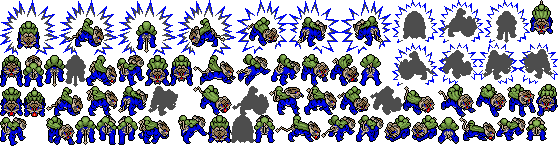
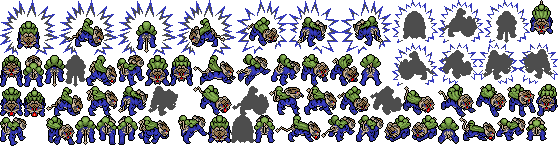
fix: tone-down high-contrast shadows

diff --git a/.claude/skills/shadow-sprites/shadow.ts b/.claude/skills/shadow-sprites/shadow.ts
@@ -43,6 +43,11 @@ interface Family {
    * every light tone to white.
    */
   fit?: boolean;
+  /**
+   * The most saturation the part may end on. Inverting a warm, saturated
+   * colour lands on a glaring pure blue or cyan; this softens it.
+   */
+  tone?: number;
 }
 /**
  * Down-facing eyes are drawn differently from side views, so a plan can
@@ -77,6 +82,12 @@ interface EyeRule {
    * a fragment of a larger spot drawn in the eye's colour is too big.
    */
   diagonal?: boolean;
+  /**
+   * Colours that are part of the eye when below a picked pixel, straight
+   * or diagonally:
+   * an eye drawn as a white glint over a coloured iris (Ho-Oh).
+   */
+  iris?: string[];
 }
 interface Plan {
   /** The sheet the pixels come from, as `dex/form`, and which coat. */
@@ -158,7 +169,8 @@ export function swapsFor(plan: Plan): Map<string, string> {
 /** A colour of a part, moved onto the part's inverted flat colour. */
 function shade(f: Family, colour: string): string {
   const target = invert(f.scheme == null ? f.base : mean(f.scheme));
-  const [th, ts, tl] = toHsl(rgb(target));
+  const [th, full, tl] = toHsl(rgb(target));
+  const ts = f.tone == null ? full : Math.min(full, f.tone);
   const baseL = toHsl(rgb(f.base))[2];
   const l = toHsl(rgb(colour))[2];
   const fitted = l <= baseL ? (l / baseL) * tl : tl + ((l - baseL) * (1 - tl)) / (1 - baseL);
@@ -240,7 +252,18 @@ function eyesBy(img: Image, rule: EyeRule): Set<number> {
       }
       return false;
     });
-    if (close && clear) for (const b of blob) found.add(b);
+    if (!close || !clear) continue;
+    const iris = new Set(rule.iris ?? []);
+    for (const b of blob) {
+      found.add(b);
+      const bx = b % img.width, by = (b / img.width) | 0;
+      // Below, or diagonally below for a side view
+      for (const dx of [0, -1, 1]) {
+        const nx = bx + dx, ny = by + 1, n = ny * img.width + nx;
+        if (!iris.size || nx < 0 || nx >= img.width || ny >= img.height) continue;
+        if (img.rgba[n * 4 + 3] && iris.has(hexAt(img, n * 4))) found.add(n);
+      }
+    }
   }
   return found;
 }
@@ -355,7 +378,11 @@ function install(plan: Plan, planFile: string): void {
   // Whoever drew the source drawing is credited for it; the colours are ours
   meta.credits = { ...meta.credits, [coat]: from.credits[plan.source.coat] ?? [] };
   meta.coats = ['regular', 'shiny', 'female', 'shinyFemale'].filter((k) => k === coat || meta.coats.includes(k));
-  meta.derived = [...(meta.derived ?? []).filter((d: any) => d.coat !== coat), { coat, anim: null, from: plan.source.coat }];
+  // Replace in place, so reinstalling a coat leaves the list's order alone
+  const entry = { coat, anim: null, from: plan.source.coat };
+  const derived = meta.derived ?? [];
+  const at = derived.findIndex((d: any) => d.coat === coat);
+  meta.derived = at < 0 ? [...derived, entry] : derived.map((d: any, i: number) => (i === at ? entry : d));
   writeFileSync(join(folder, 'sheet.json'), JSON.stringify(meta));
   updateIndex(COMPACT);
   const kept = join(COMPACT, 'edits', `${plan.target.form.split('/').map((n) => n.padStart(4, '0')).join('-')}-shadow-${coat}.json`);

diff --git a/compact/EDITS.md b/compact/EDITS.md
@@ -15,15 +15,15 @@ rather than what the artist submitted.
 | `kalos/0702/0000` shiny `Hurt` | `kalos/0702/0000` regular `Hurt` | The shiny was never drawn hurt. Recoloured through the mapping, except the light forehead: the regular paints forehead and face one tan, so those pixels came from whichever of the shiny’s other clips draws the same five-by-five neighbourhood. |
 | `unova/0588/0000` shiny | `unova/0588/0000` regular | No shiny was drawn. Recoloured from the regular, matched to the official shiny artwork. |
 | `johto/0249/0001` Shadow shiny | `johto/0249/0001` regular | No shiny was drawn. Scheme taken from shiny Lugia with its shading removed, then inverted: black body, turquoise plates. Applied over Shadow Lugia's own shading; eyes kept red. |
-| `johto/0250/0002` Shadow | `johto/0250/0000` regular | Not in the collection; a form of ours. Made with the `shadow-sprites` skill from `edits/0250-0002-shadow-regular.json`, eyes included. |
-| `johto/0250/0002` Shadow, shiny | `johto/0250/0000` shiny | The same, from shiny Ho-Oh: `edits/0250-0002-shadow-shiny.json`. |
+| `johto/0250/0002` Shadow | `johto/0250/0000` regular | Not in the collection; a form of ours. Made with the `shadow-sprites` skill from `edits/0250-0002-shadow-regular.json`, eyes included. Each eye is a white glint plus the red iris below it (`iris`); side views need a second rule. Main blue softened with `tone`. |
+| `johto/0250/0002` Shadow, shiny | `johto/0250/0000` shiny | The same, from shiny Ho-Oh: `edits/0250-0002-shadow-shiny.json`. Main blue softened with `tone`. |
 | `kanto/0150/0003` Shadow, shiny | `kanto/0150/0003` regular | No shiny was drawn. Made with the `shadow-sprites` skill: body and tail from shiny Mewtwo inverted, gold blasts and stripes turned to Mewtwo's blast blue by hand (`edits/0150-0003-shadow-shiny.json`). |
-| `kanto/0146/0004` Shadow | `kanto/0146/0000` regular | Not in the collection; a form of ours. Made with the `shadow-sprites` skill: `edits/0146-0004-shadow-regular.json`. |
+| `kanto/0146/0004` Shadow | `kanto/0146/0000` regular | Not in the collection; a form of ours. Made with the `shadow-sprites` skill: `edits/0146-0004-shadow-regular.json`. Main blue softened with `tone`. |
 | `kanto/0146/0004` Shadow, shiny | `kanto/0146/0000` shiny | The same, from shiny Moltres, with the regular's eyes: `edits/0146-0004-shadow-shiny.json`. |
 | `kanto/0144/0004` Shadow | `kanto/0144/0000` regular | Not in the collection; a form of ours. Made with the `shadow-sprites` skill: `edits/0144-0004-shadow-regular.json`. |
 | `kanto/0144/0004` Shadow, shiny | `kanto/0144/0000` shiny | The same, from shiny Articuno, with the regular's eyes: `edits/0144-0004-shadow-shiny.json`. |
-| `kanto/0145/0004` Shadow | `kanto/0145/0000` regular | Not in the collection; a form of ours. Made with the `shadow-sprites` skill: `edits/0145-0004-shadow-regular.json`. |
-| `kanto/0145/0004` Shadow, shiny | `kanto/0145/0000` shiny | The same, from shiny Zapdos, with the regular's eyes: `edits/0145-0004-shadow-shiny.json`. |
+| `kanto/0145/0004` Shadow | `kanto/0145/0000` regular | Not in the collection; a form of ours. Made with the `shadow-sprites` skill: `edits/0145-0004-shadow-regular.json`. Main blue softened with `tone`. |
+| `kanto/0145/0004` Shadow, shiny | `kanto/0145/0000` shiny | The same, from shiny Zapdos, with the regular's eyes: `edits/0145-0004-shadow-shiny.json`. Main blue softened with `tone`. |
 | `hoenn/0382/0003` Shadow | `hoenn/0382/0000` regular | Not in the collection; a form of ours. Made with the `shadow-sprites` skill: `edits/0382-0003-shadow-regular.json`. |
 | `hoenn/0382/0003` Shadow, shiny | `hoenn/0382/0000` shiny | The same, from shiny Kyogre, with the regular's eyes: `edits/0382-0003-shadow-shiny.json`. |
 | `hoenn/0383/0004` Shadow | `hoenn/0383/0000` regular | Not in the collection; a form of ours. Made with the `shadow-sprites` skill: `edits/0383-0004-shadow-regular.json`. |
@@ -34,16 +34,16 @@ rather than what the artist submitted.
 | `galar/0144/0005` Shadow_Galar, shiny | `galar/0144/0001` shiny | The same, from shiny Galarian Articuno, with the regular's eyes: `edits/0144-0005-shadow-shiny.json`. |
 | `galar/0146/0005` Shadow_Galar | `galar/0146/0001` regular | Not in the collection; a form of ours. Made with the `shadow-sprites` skill: `edits/0146-0005-shadow-regular.json`. |
 | `galar/0146/0005` Shadow_Galar, shiny | `galar/0146/0001` shiny | The same, from shiny Galarian Moltres, with the regular's eyes: `edits/0146-0005-shadow-shiny.json`. |
-| `galar/0145/0005` Shadow_Galar | `galar/0145/0001` regular | Not in the collection; a form of ours. Made with the `shadow-sprites` skill: `edits/0145-0005-shadow-regular.json`. Its glowing and non-glowing frames draw the eye differently; one rule each. |
-| `galar/0145/0005` Shadow_Galar, shiny | `galar/0145/0001` shiny | The same, from shiny Galarian Zapdos, with the regular's eyes: `edits/0145-0005-shadow-shiny.json`. |
-| `johto/0243/0002` Shadow | `johto/0243/0000` regular | Not in the collection; a form of ours. Made with the `shadow-sprites` skill: `edits/0243-0002-shadow-regular.json`. Eyes and mouth share their reds; the reds are kept and the eye tone painted red. |
+| `galar/0145/0005` Shadow_Galar | `galar/0145/0001` regular | Not in the collection; a form of ours. Made with the `shadow-sprites` skill: `edits/0145-0005-shadow-regular.json`. Its glowing and non-glowing frames draw the eye differently; one rule each. Dark feathers and legs keep their darkness. |
+| `galar/0145/0005` Shadow_Galar, shiny | `galar/0145/0001` shiny | The same, from shiny Galarian Zapdos, with the regular's eyes: `edits/0145-0005-shadow-shiny.json`. Main blue softened with `tone`. |
+| `johto/0243/0002` Shadow | `johto/0243/0000` regular | Not in the collection; a form of ours. Made with the `shadow-sprites` skill: `edits/0243-0002-shadow-regular.json`. Eyes and mouth share their reds; the reds are kept and the eye tone painted red. Main blue softened with `tone`. |
 | `johto/0243/0002` Shadow, shiny | `johto/0243/0000` shiny | The same, from shiny Raikou, parts told apart by the regular: `edits/0243-0002-shadow-shiny.json`. |
 | `johto/0244/0003` Shadow | `johto/0244/0000` regular | Not in the collection; a form of ours. Made with the `shadow-sprites` skill: `edits/0244-0003-shadow-regular.json`. |
 | `johto/0244/0003` Shadow, shiny | `johto/0244/0000` shiny | The same, from shiny Entei, parts told apart by the regular: `edits/0244-0003-shadow-shiny.json`. |
 | `johto/0245/0003` Shadow | `johto/0245/0000` regular | Not in the collection; a form of ours. Made with the `shadow-sprites` skill: `edits/0245-0003-shadow-regular.json`. |
 | `johto/0245/0003` Shadow, shiny | `johto/0245/0000` shiny | The same, from shiny Suicune, parts told apart by the regular: `edits/0245-0003-shadow-shiny.json`. |
 | `hoenn/0380/0003` Shadow | `hoenn/0380/0000` regular | Not in the collection; a form of ours. Made with the `shadow-sprites` skill: `edits/0380-0003-shadow-regular.json`. |
-| `hoenn/0380/0003` Shadow, shiny | `hoenn/0380/0000` shiny | The same, from shiny Latias, with the regular's eyes: `edits/0380-0003-shadow-shiny.json`. |
+| `hoenn/0380/0003` Shadow, shiny | `hoenn/0380/0000` shiny | The same, from shiny Latias, with the regular's eyes: `edits/0380-0003-shadow-shiny.json`. Main blue softened with `tone`. |
 | `hoenn/0381/0003` Shadow | `hoenn/0381/0000` regular | Not in the collection; a form of ours. Made with the `shadow-sprites` skill: `edits/0381-0003-shadow-regular.json`. Eyes share their reds with the chest and mouth; two rules find them. |
 | `hoenn/0381/0003` Shadow, shiny | `hoenn/0381/0000` shiny | The same, from shiny Latios, with the regular's eyes: `edits/0381-0003-shadow-shiny.json`. |
 | `hoenn/0377/0002` Shadow | `hoenn/0377/0000` regular | Not in the collection; a form of ours. Made with the `shadow-sprites` skill: `edits/0377-0002-shadow-regular.json`. Its dots are painted as eyes. |
@@ -61,7 +61,7 @@ rather than what the artist submitted.
 | `hoenn/0386/0011` Shadow_Speed | `hoenn/0386/0003` regular | Not in the collection; a form of ours. Made with the `shadow-sprites` skill: `edits/0386-0011-shadow-regular.json`. Eyes found by rule: the sparkles share their white. |
 | `hoenn/0386/0011` Shadow_Speed, shiny | `hoenn/0386/0003` shiny | The same, from the shiny, with the regular's eyes: `edits/0386-0011-shadow-shiny.json`. |
 | `sinnoh/0480/0001` Shadow | `sinnoh/0480/0000` regular | Not in the collection; a form of ours. Made with the `shadow-sprites` skill: `edits/0480-0001-shadow-regular.json`. Closed eyes share their brown with the head; two rules find them. Head blue muted by `scheme`; crease shades deepened by `override`. |
-| `sinnoh/0480/0001` Shadow, shiny | `sinnoh/0480/0000` shiny | The same, from shiny Uxie, with the regular's eyes: `edits/0480-0001-shadow-shiny.json`. |
+| `sinnoh/0480/0001` Shadow, shiny | `sinnoh/0480/0000` shiny | The same, from shiny Uxie, with the regular's eyes: `edits/0480-0001-shadow-shiny.json`. Main blue softened with `tone`. |
 | `sinnoh/0481/0002` Shadow | `sinnoh/0481/0000` regular | Not in the collection; a form of ours. Made with the `shadow-sprites` skill: `edits/0481-0002-shadow-regular.json`. Hair shade and gems share a red; parts told apart by the shiny. |
 | `sinnoh/0481/0002` Shadow, shiny | `sinnoh/0481/0000` shiny | The same, from shiny Mesprit, with the regular's eyes: `edits/0481-0002-shadow-shiny.json`. |
 | `sinnoh/0482/0002` Shadow | `sinnoh/0482/0000` regular | Not in the collection; a form of ours. Made with the `shadow-sprites` skill: `edits/0482-0002-shadow-regular.json`. |

diff --git a/.claude/skills/shadow-sprites/SKILL.md b/.claude/skills/shadow-sprites/SKILL.md
@@ -33,6 +33,8 @@ Calyrex's `Shadow_Rider` is a battle form, not a Shadow Pokémon.
    or shade. A part that inverts to near black (white, pale grey) gets
    `"darken": 0.3` so its shading survives. A dark part that inverts to a
    light one gets `"fit": true`, or its lights all turn white.
+   Dark edges and outlines (Galarian Zapdos's feathers) stay dark instead:
+   give them a `scheme` whose inverse is a dark colour of the new hue.
 3. Eyes. A colour only the eyes use goes in `red`. Eyes sharing a body
    colour need an `eyes` rule: a small patch of `white` touching only
    `face` colours, at least one `touch` colour, with a `near` colour within
@@ -81,6 +83,9 @@ Calyrex's `Shadow_Rider` is a battle form, not a Shadow Pokémon.
 }
 ```
 
+A part covering much of the sprite that inverts to a fully saturated blue
+gets `"tone": 0.55`, a cap on its saturation. Leave cyan and small parts.
+
 Colours in no part stay as they are. `override` maps a colour's result by
 hand, for a part that inverts too close to its neighbour.
 Shades that differ from the base by hue more than lightness (Uxie's
@@ -89,6 +94,8 @@ deepen them with `override`.
 `"diagonal": true` sizes a patch with its corner neighbours, so a
 fragment of a larger spot in the eye's colour (Palkia's pearls) is too big.
 `far` lists colours that must not be within `reach`.
+`iris` lists colours that belong to the eye when just below a picked pixel,
+straight or diagonal: paint the whole eye, not only its glint (Ho-Oh).
 An eye rule's `white` can list several colours, for an eye drawn in two
 tones. Eyes sharing the mouth's colours can instead keep them: leave the
 colours out of every part and put the eye tone in `red`, as Raikou does.
